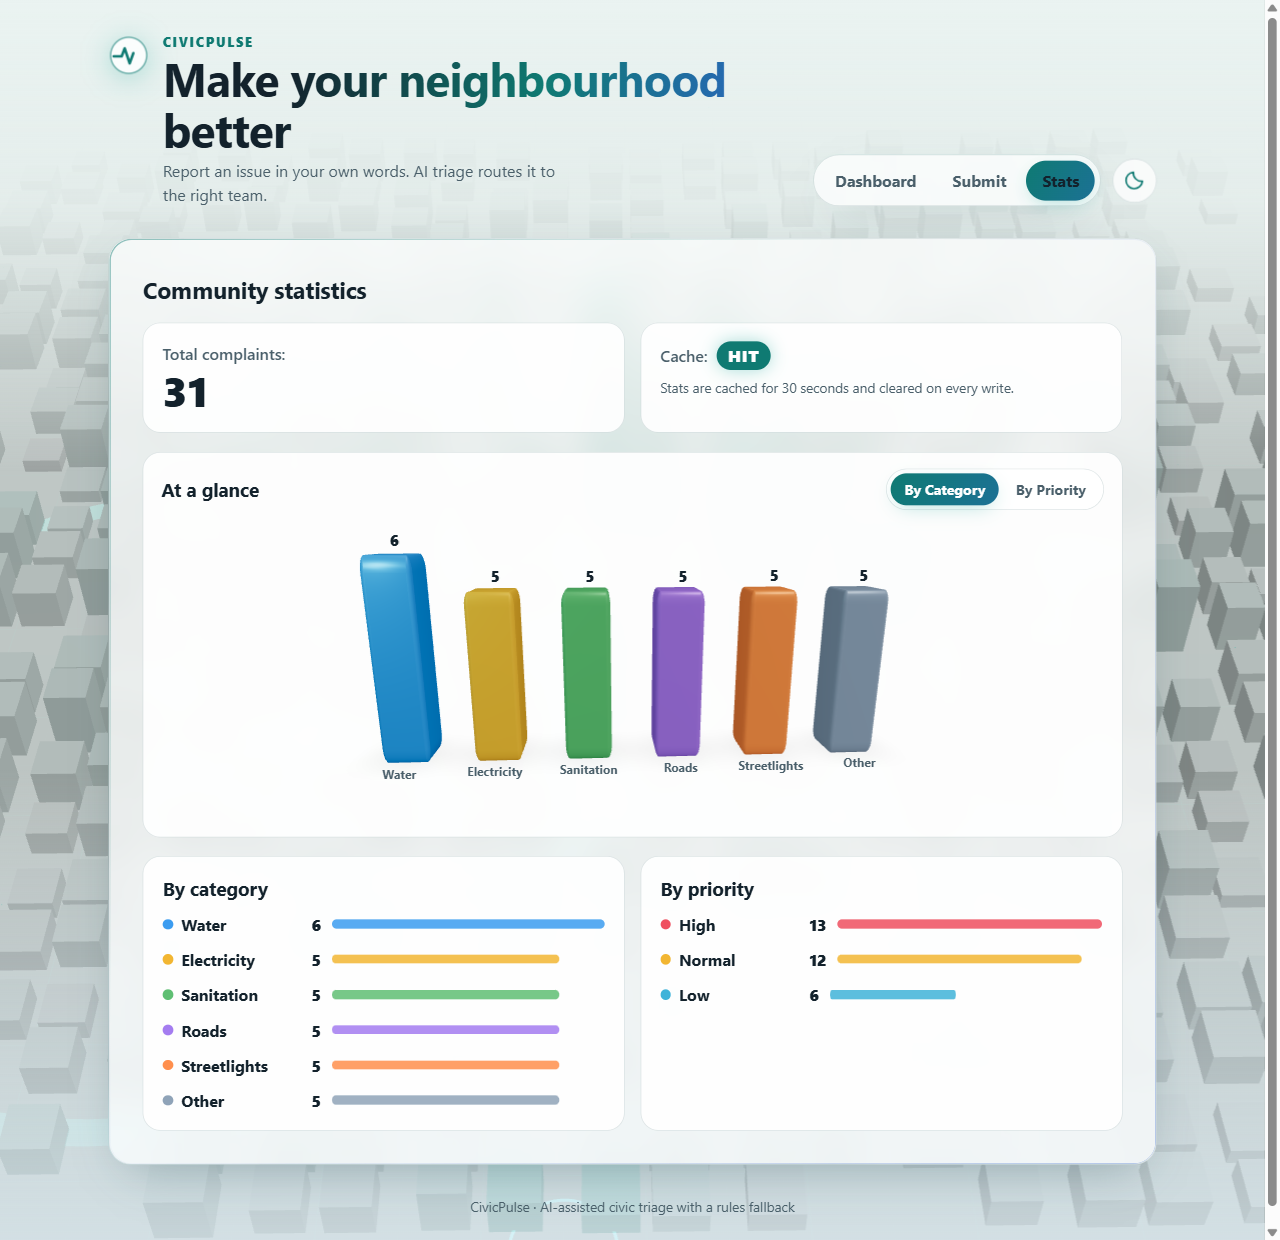
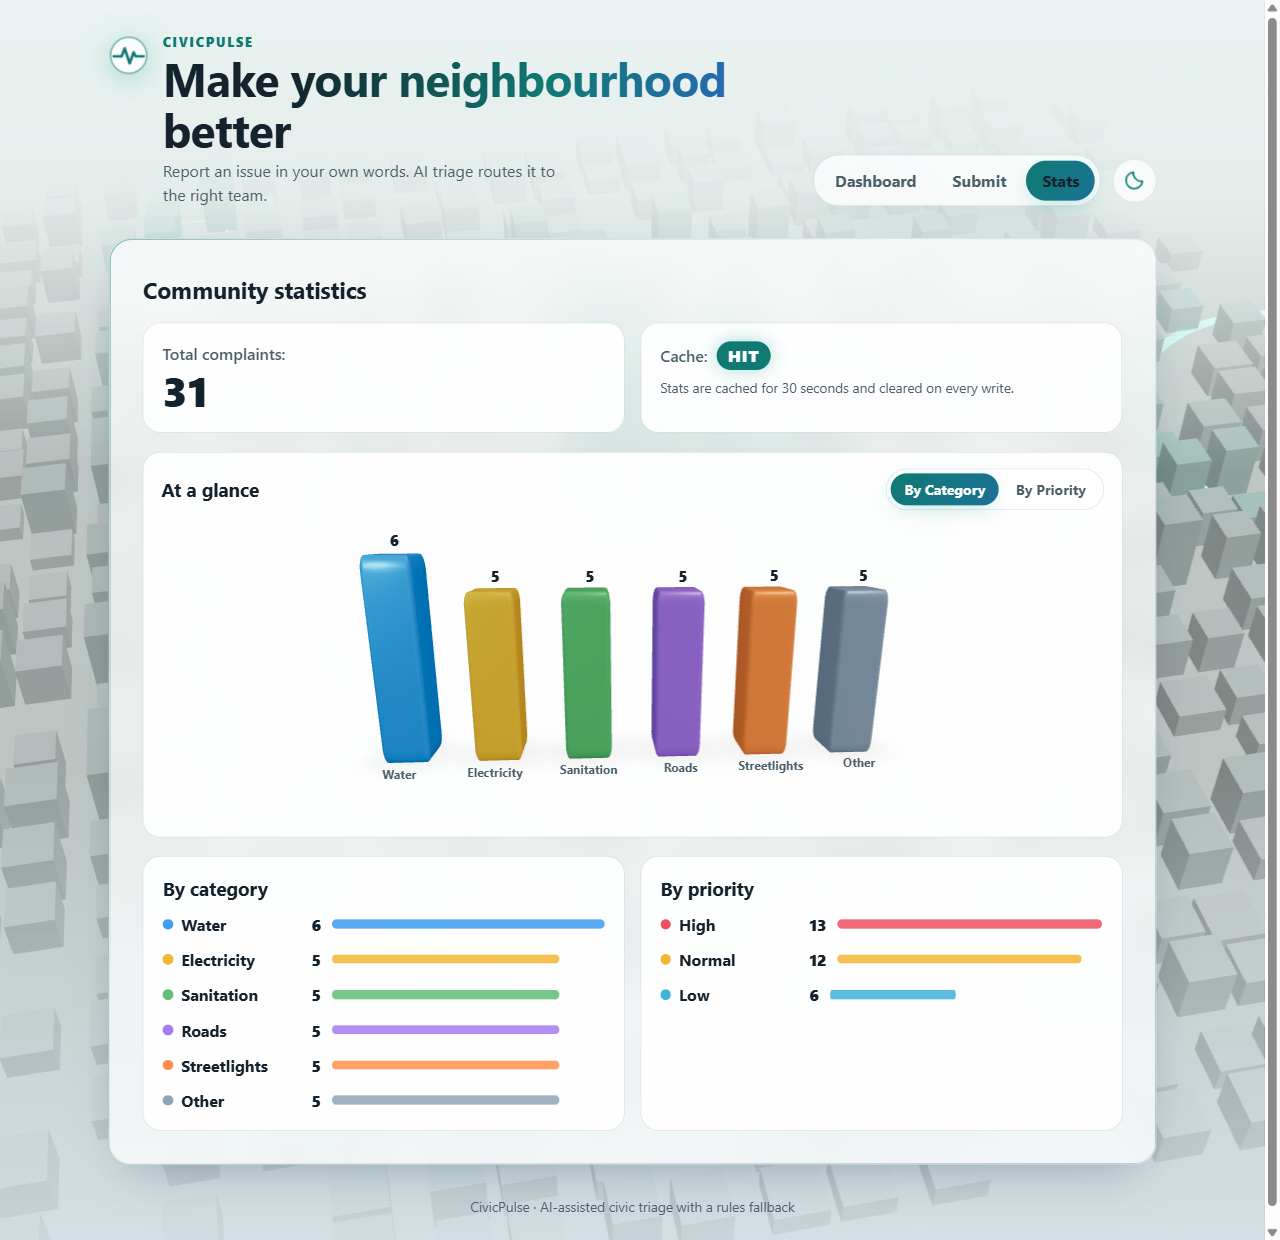
docs(evidence): capture light and dark screenshots of the animated UI
Refs #145

diff --git a/docs/evidence/screenshots-README.md b/docs/evidence/screenshots-README.md
@@ -24,6 +24,10 @@ history; the procedure below them describes that original capture.
 - Flow: submitted the synthetic burst-water-main complaint (POST **201**, rules, water, high), opened
   Dashboard (**31 complaints**), opened Stats (**MISS**), left and returned within the TTL (**HIT**).
 - Zero page errors and zero console errors. The temporary project and its volumes were removed.
+- Follow-up for issue #145: the six light/dark README captures (`screenshots-{submit,dashboard,stats}.png`
+  and their `-dark` variants) were taken in one run of the same procedure on a new empty project,
+  from the frontend image built from the #143 branch. The same flow gave POST **201**, **31
+  complaints**, Stats **MISS** then **HIT**, zero page errors; the dark set follows the theme toggle.
 
 These captures show rules classification, live storage/cache and the new presentation. They do not
 demonstrate a hosted LLM, Ollama or fallback, and the submitted video still shows the earlier UI.
